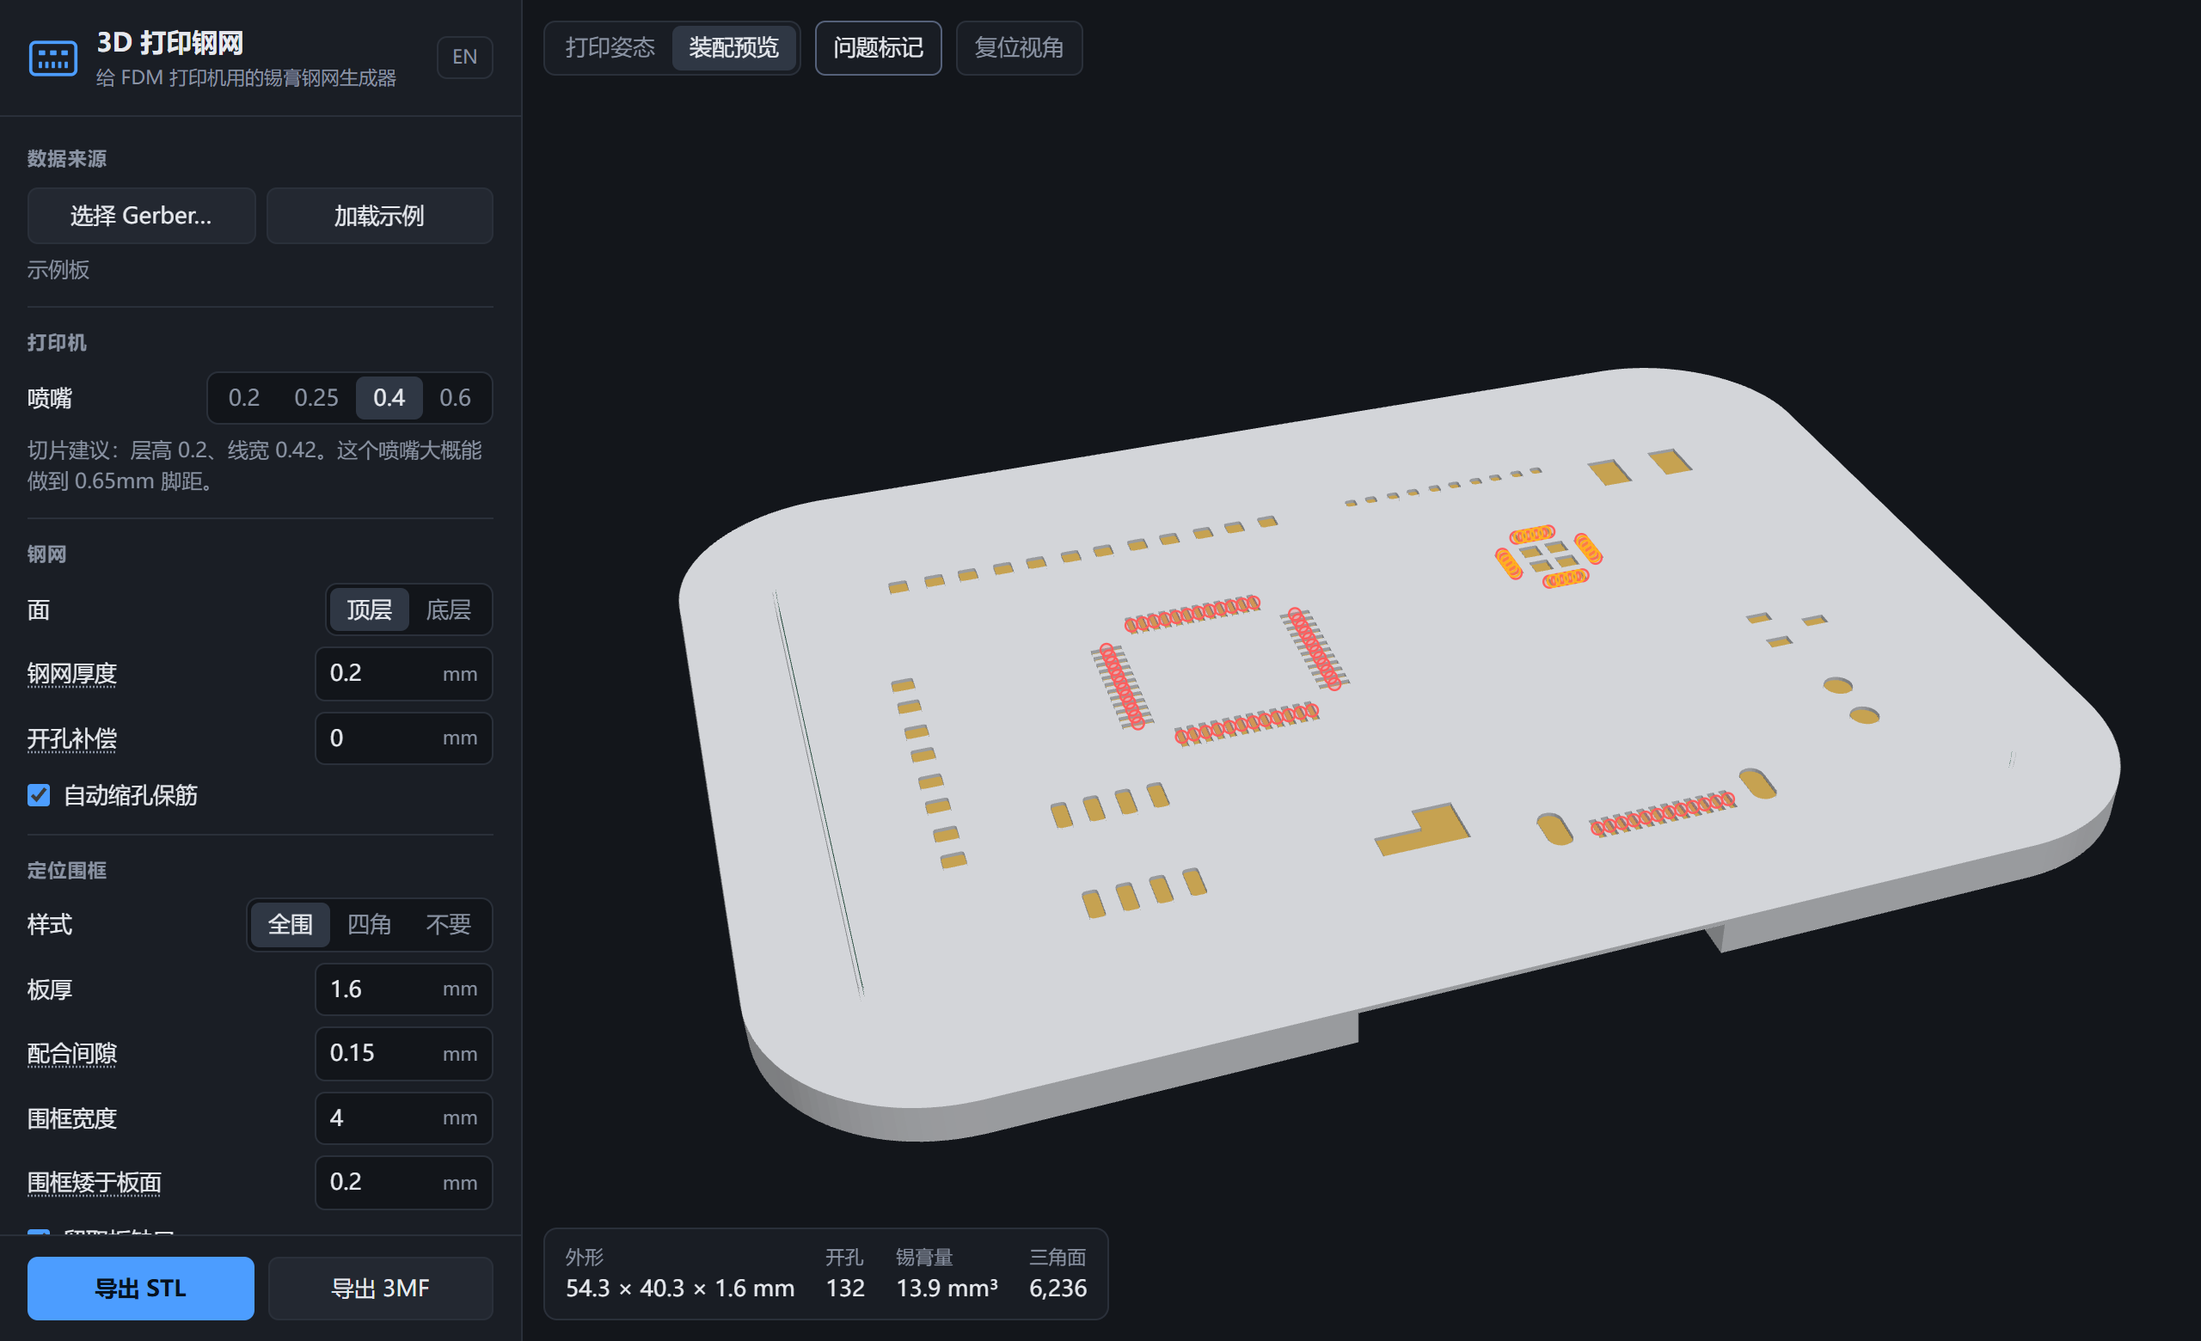
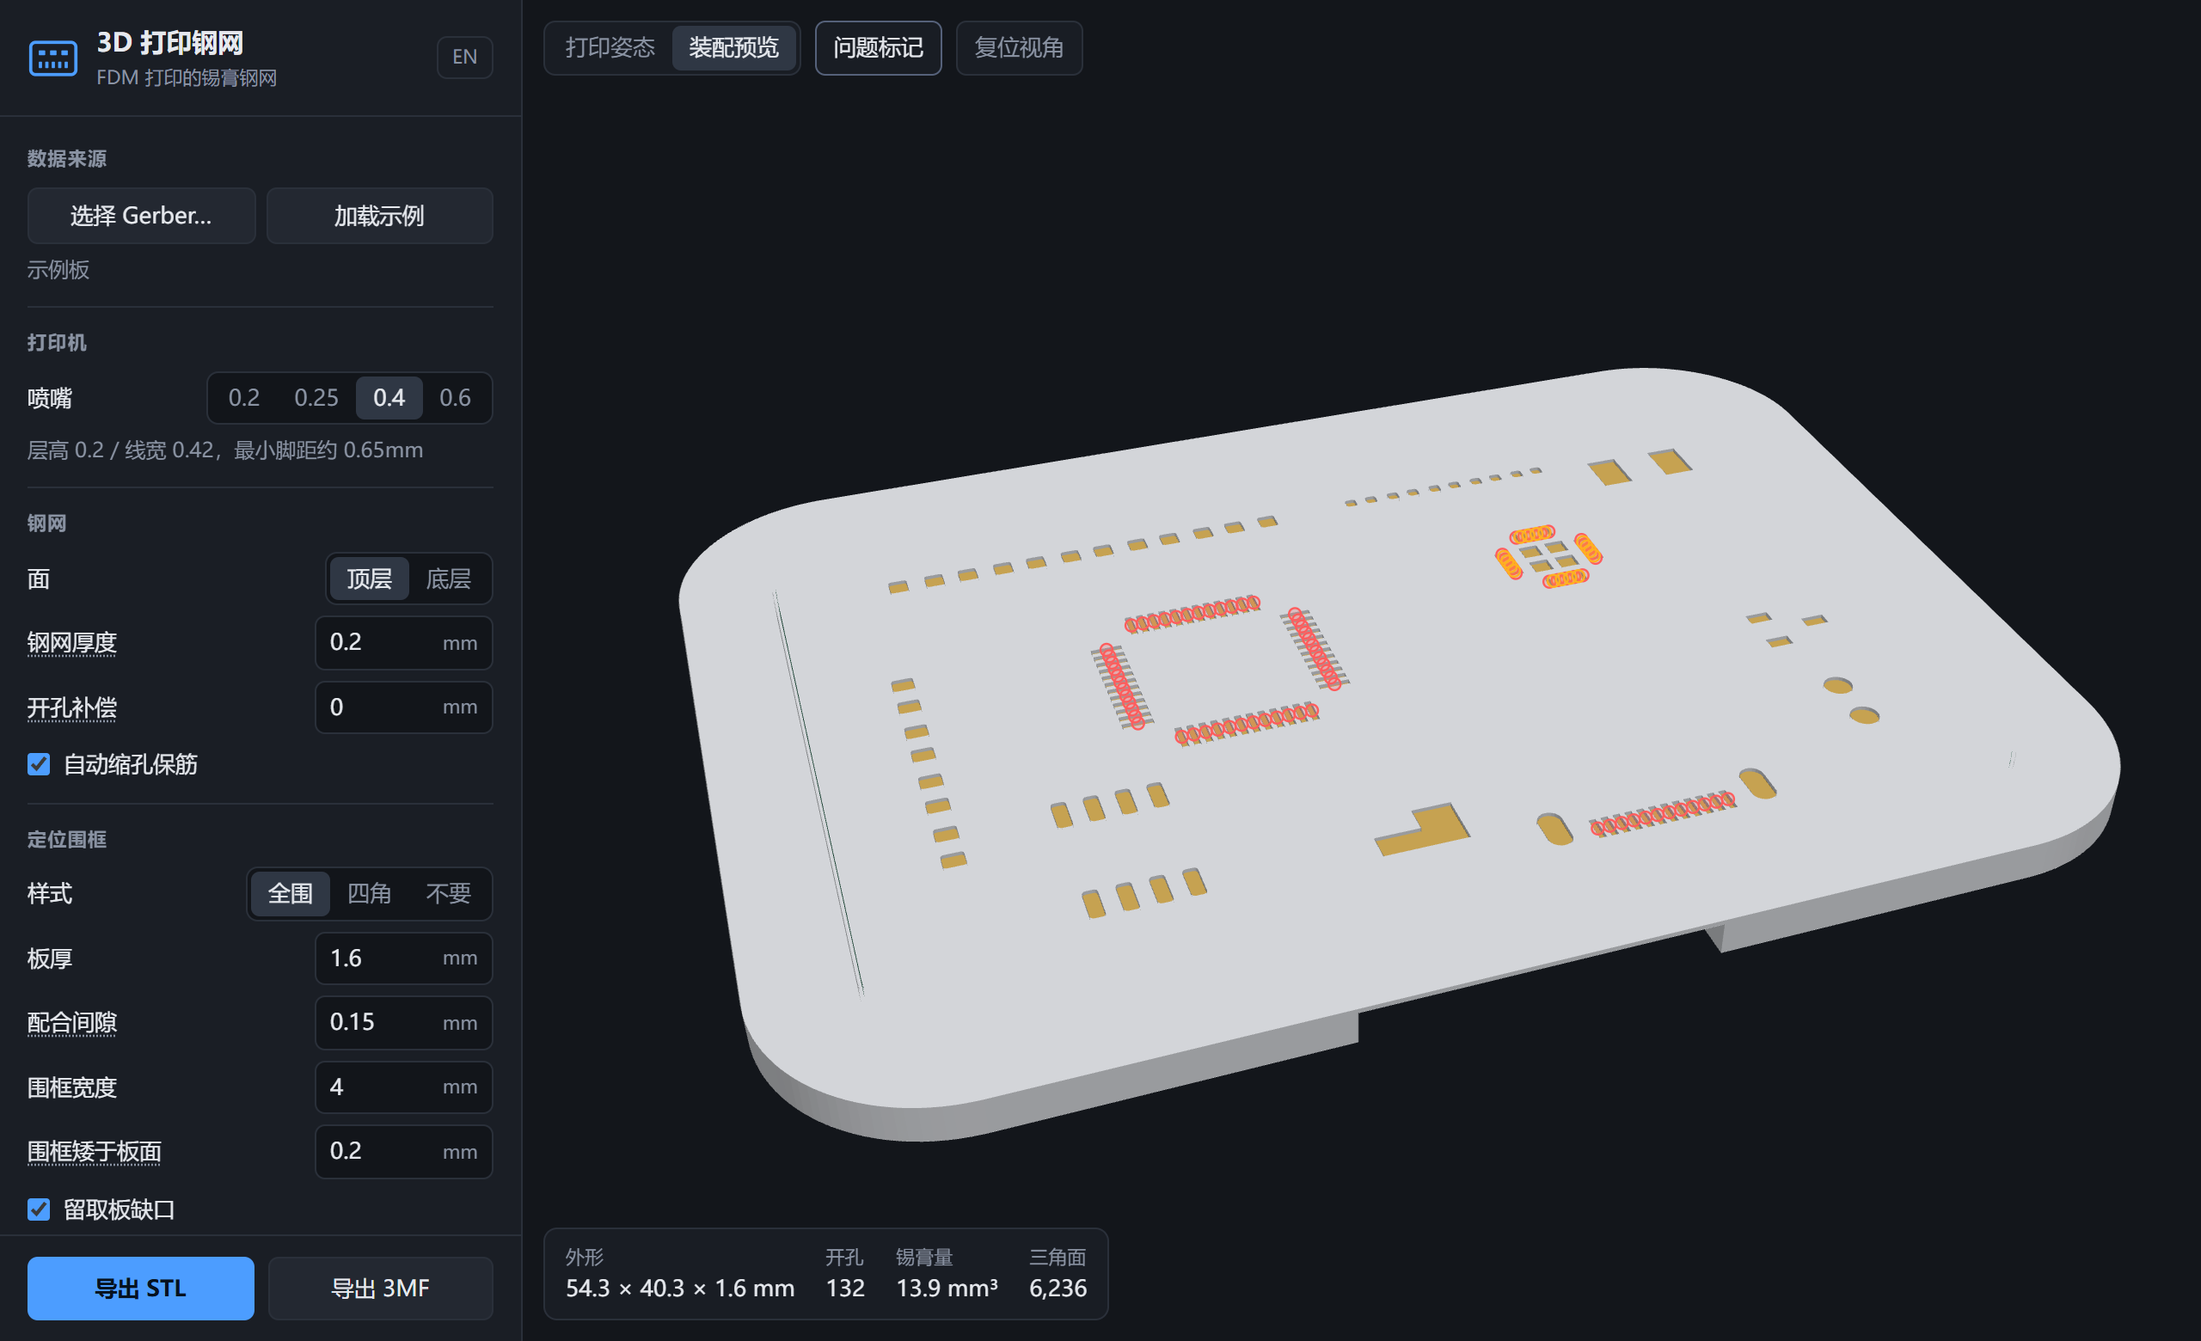
feat(app): 俯视对照，窗口默认停在右边，文案精简

diff --git a/src/app/i18n.ts b/src/app/i18n.ts
@@ -2,7 +2,7 @@ export type Lang = 'zh' | 'en';
 
 const zh = {
 	'title': '3D 打印钢网',
-	'subtitle': '给 FDM 打印机用的锡膏钢网生成器',
+	'subtitle': 'FDM 打印的锡膏钢网',
 	'source': '数据来源',
 	'source.eda': '读取当前 PCB',
 	'source.reload': '重新读取',
@@ -13,36 +13,36 @@ const zh = {
 	'source.demoName': '示例板',
 	'printer': '打印机',
 	'nozzle': '喷嘴',
-	'nozzle.hint': '切片建议：层高 {0}、线宽 {1}。这个喷嘴大概能做到 {2}mm 脚距。',
+	'nozzle.hint': '层高 {0} / 线宽 {1}，最小脚距约 {2}mm',
 	'nozzle.reset': '恢复推荐值',
 	'stencil': '钢网',
 	'side': '面',
 	'side.top': '顶层',
 	'side.bottom': '底层',
 	'thickness': '钢网厚度',
-	'thickness.tip': '就是锡膏厚度，设成切片层高的整数倍',
+	'thickness.tip': '即锡膏厚度，最好是层高的整数倍',
 	'compensation': '开孔补偿',
-	'compensation.tip': '正数把孔放大，负数缩小。FDM 的孔一般会偏小',
+	'compensation.tip': '正数放大开孔，FDM 打出来的孔一般偏小',
 	'keepWebs': '自动缩孔保筋',
-	'keepWebs.tip': '相邻孔之间的筋不够一条线宽时，两边的孔各缩一点，保证筋能打出来',
-	'check.webFix': '{0} 个孔和邻居之间的筋不够 {1}mm，已自动缩小一点让筋能打出来。',
+	'keepWebs.tip': '孔间筋不够一条线宽时，两边孔各缩一点',
+	'check.webFix': '缩小了 {0} 个孔，让孔间筋达到 {1}mm',
 	'frame': '定位围框',
 	'frame.mode': '样式',
 	'frame.full': '全围',
 	'frame.corners': '四角',
 	'frame.none': '不要',
 	'boardThickness': '板厚',
-	'boardThickness.auto': '已从叠层读到 {0}mm，记得核对一下',
+	'boardThickness.auto': '从叠层读到 {0}mm',
 	'clearance': '配合间隙',
-	'clearance.tip': '板边到围框内壁，太紧就调大',
+	'clearance.tip': '板边到围框内壁的间隙',
 	'frameWidth': '围框宽度',
 	'frameWidth.none': '外扩边宽',
 	'frameDrop': '围框矮于板面',
-	'frameDrop.tip': '围框比板子矮一点，钢网片才压得实',
+	'frameDrop.tip': '围框比板面矮一点，钢网才能贴平',
 	'cornerLength': '角臂长',
 	'notches': '留取板缺口',
 	'cornerRelief': '内角避让',
-	'cornerRelief.tip': '围框内角挖个小圆，不然打印堆料会顶住板角',
+	'cornerRelief.tip': '内角挖小圆，避免堆料顶住板角',
 	'export': '导出',
 	'export.stl': '导出 STL',
 	'export.3mf': '导出 3MF',
@@ -50,36 +50,35 @@ const zh = {
 	'view.print': '打印姿态',
 	'view.assembled': '装配预览',
 	'view.reset': '复位视角',
+	'view.top': '俯视对照',
+	'view.top.tip': '从正上方看装配效果，方向和 PCB 编辑器一致',
 	'view.issues': '问题标记',
 	'stat.size': '外形',
 	'stat.apertures': '开孔',
 	'stat.triangles': '三角面',
 	'stat.paste': '锡膏量',
-	'check': '可打印性',
-	'check.ok': '没发现问题，可以直接打。',
-	'check.narrow': '{0} 个开孔窄于 {1}mm，{2} 喷嘴很可能糊死。换细喷嘴，或者加一点开孔补偿。',
-	'check.web': '{0} 处孔间筋细于 {1}mm，可能打不出来导致相邻焊盘连锡。',
-	'check.noPaste': '这一面没有锡膏层数据（没有贴片焊盘？）。',
-	'check.outline.bbox': '板框没闭合，先用包围盒顶着，定位可能不准。',
-	'check.outline.stroke': '板框线段没接严，用描边轮廓近似的。',
-	'check.outline.none': '没找到板框层。',
-	'check.frameLow': '围框只有 {0}mm 高，可能卡不住板子。',
-	'check.gerber': 'Gerber 解析提示：{0}',
-	'check.mirrored': '顶层钢网已镜像，打印时光面朝下，用的时候翻过来扣在板上。',
-	'tips': '打印小贴士',
-	'tips.body': 'PETG 比 PLA 韧，更耐刮；用光面板，首层放慢到 20mm/s；第一层就是钢网片，别开太大的象脚补偿；刮刀用旧卡片就行。',
+	'check': '检查',
+	'check.ok': '没有问题',
+	'check.narrow': '{0} 个孔窄于 {1}mm，{2} 喷嘴可能会堵',
+	'check.web': '{0} 处孔间筋细于 {1}mm，可能连锡',
+	'check.noPaste': '这一面没有锡膏层',
+	'check.outline.bbox': '板框没闭合，按外接矩形处理',
+	'check.outline.stroke': '板框线段没接上，按描边近似',
+	'check.outline.none': '没有板框层',
+	'check.frameLow': '围框只有 {0}mm 高，可能卡不住',
+	'check.gerber': 'Gerber：{0}',
 	'busy': '计算中…',
 	'busy.eda': '正在从 PCB 导出 Gerber…',
-	'error.noGerber': '没拿到 Gerber，请确认当前打开的是 PCB 页面。',
-	'error.noLayers': '压缩包里没找到锡膏层或板框层。',
-	'error.webgl': '浏览器不支持 WebGL2，没法预览，但导出不受影响。',
+	'error.noGerber': '没拿到 Gerber。切到 PCB 编辑页（不是 3D 预览）再点重新读取',
+	'error.noLayers': '压缩包里没有锡膏层或板框层',
+	'error.webgl': '不支持 WebGL2，没法预览，导出不受影响',
 	'error.failed': '生成失败：{0}',
 	'unit.layers': '层',
 };
 
 const en: Record<keyof typeof zh, string> = {
 	'title': '3D Printed Stencil',
-	'subtitle': 'Solder paste stencil generator for FDM printers',
+	'subtitle': 'Solder paste stencils for FDM printers',
 	'source': 'Source',
 	'source.eda': 'Read current PCB',
 	'source.reload': 'Reload',
@@ -90,36 +89,36 @@ const en: Record<keyof typeof zh, string> = {
 	'source.demoName': 'Demo board',
 	'printer': 'Printer',
 	'nozzle': 'Nozzle',
-	'nozzle.hint': 'Slicer: layer height {0}, line width {1}. Good down to about {2}mm pitch.',
+	'nozzle.hint': 'Layer {0} / line {1}, down to about {2}mm pitch',
 	'nozzle.reset': 'Reset to recommended',
 	'stencil': 'Stencil',
 	'side': 'Side',
 	'side.top': 'Top',
 	'side.bottom': 'Bottom',
 	'thickness': 'Thickness',
-	'thickness.tip': 'Equals paste height. Keep it a multiple of your layer height',
+	'thickness.tip': 'Paste height. Best as a multiple of layer height',
 	'compensation': 'Aperture offset',
-	'compensation.tip': 'Positive grows the holes. FDM holes usually come out small',
+	'compensation.tip': 'Positive grows the apertures. FDM holes tend to come out small',
 	'keepWebs': 'Keep webs printable',
-	'keepWebs.tip': 'When the web between two apertures is thinner than one line, trim both apertures a little so it can be printed',
-	'check.webFix': '{0} apertures were trimmed slightly so the webs between them reach {1}mm.',
+	'keepWebs.tip': 'Trim both apertures when the web between them is under one line wide',
+	'check.webFix': 'Trimmed {0} apertures to keep webs at {1}mm',
 	'frame': 'Alignment frame',
 	'frame.mode': 'Style',
 	'frame.full': 'Full',
 	'frame.corners': 'Corners',
 	'frame.none': 'None',
 	'boardThickness': 'Board thickness',
-	'boardThickness.auto': 'Read {0}mm from the stackup, please double-check',
+	'boardThickness.auto': 'Read {0}mm from the stackup',
 	'clearance': 'Fit clearance',
-	'clearance.tip': 'Gap between board edge and frame. Increase if too tight',
+	'clearance.tip': 'Gap between board edge and frame',
 	'frameWidth': 'Frame width',
 	'frameWidth.none': 'Margin',
 	'frameDrop': 'Frame below board',
-	'frameDrop.tip': 'Frame is slightly shorter than the board so the sheet sits flat',
+	'frameDrop.tip': 'Frame sits slightly below the board so the sheet lies flat',
 	'cornerLength': 'Corner arm',
 	'notches': 'Finger notches',
 	'cornerRelief': 'Corner relief',
-	'cornerRelief.tip': 'Small circles at inside corners so blobs do not block the board',
+	'cornerRelief.tip': 'Relief circles in inside corners for FDM blobs',
 	'export': 'Export',
 	'export.stl': 'Export STL',
 	'export.3mf': 'Export 3MF',
@@ -127,29 +126,28 @@ const en: Record<keyof typeof zh, string> = {
 	'view.print': 'Print',
 	'view.assembled': 'Assembled',
 	'view.reset': 'Reset view',
+	'view.top': 'Top view',
+	'view.top.tip': 'Assembled view from straight above, same orientation as the PCB editor',
 	'view.issues': 'Issues',
 	'stat.size': 'Size',
 	'stat.apertures': 'Apertures',
 	'stat.triangles': 'Triangles',
 	'stat.paste': 'Paste',
-	'check': 'Printability',
-	'check.ok': 'Looks good, ready to print.',
-	'check.narrow': '{0} apertures are narrower than {1}mm and will likely clog with a {2} nozzle. Use a finer nozzle or add some aperture offset.',
-	'check.web': '{0} webs between apertures are thinner than {1}mm and may not print, bridging neighbouring pads.',
-	'check.noPaste': 'No paste data on this side (no SMD pads?).',
-	'check.outline.bbox': 'Board outline is not closed, using its bounding box. Alignment may be off.',
-	'check.outline.stroke': 'Outline segments do not meet exactly, approximated from the strokes.',
-	'check.outline.none': 'No board outline layer found.',
-	'check.frameLow': 'The frame is only {0}mm tall and may not hold the board.',
-	'check.gerber': 'Gerber notice: {0}',
-	'check.mirrored': 'Top stencil is mirrored: print smooth side down, flip it onto the board to use.',
-	'tips': 'Printing tips',
-	'tips.body': 'PETG is tougher than PLA. Use a smooth plate, slow the first layer to 20mm/s, go easy on elephant-foot compensation, and an old card makes a fine squeegee.',
+	'check': 'Checks',
+	'check.ok': 'No issues',
+	'check.narrow': '{0} apertures under {1}mm, may clog with a {2} nozzle',
+	'check.web': '{0} webs under {1}mm, pads may bridge',
+	'check.noPaste': 'No paste layer on this side',
+	'check.outline.bbox': 'Outline not closed, using bounding box',
+	'check.outline.stroke': 'Outline segments do not meet, approximated',
+	'check.outline.none': 'No outline layer',
+	'check.frameLow': 'Frame is only {0}mm tall, may not hold the board',
+	'check.gerber': 'Gerber: {0}',
 	'busy': 'Working…',
 	'busy.eda': 'Exporting Gerber from the PCB…',
-	'error.noGerber': 'Could not get Gerber data. Make sure a PCB document is active.',
-	'error.noLayers': 'No paste or outline layer found in the archive.',
-	'error.webgl': 'WebGL2 is not available, preview is disabled but export still works.',
+	'error.noGerber': 'No Gerber data. Switch to the PCB editor tab (not the 3D view) and hit Reload',
+	'error.noLayers': 'No paste or outline layer in the archive',
+	'error.webgl': 'No WebGL2, preview disabled. Export still works',
 	'error.failed': 'Failed: {0}',
 	'unit.layers': 'layers',
 };

diff --git a/src/app/main.ts b/src/app/main.ts
@@ -4,7 +4,8 @@ import type { Key, Lang } from './i18n';
 import type { Marker, SceneItem } from './viewer';
 import { applyNozzle, buildMesh, DEFAULT_PARAMS, generateStencil, loadBoard, nozzlePreset, to3mf, toStl } from '../core';
 import { demoGerbers } from '../core/demo';
-import { hostLanguage, inEda, readBoardThickness, readFiles, readFromEda, saveFile } from './host';
+import { DOCK_MAX } from '../window';
+import { dockWindow, hostLanguage, inEda, readBoardThickness, readFiles, readFromEda, saveFile } from './host';
 import { getLang, setLang, t } from './i18n';
 import { flipOnto, Viewer } from './viewer';
 
@@ -309,9 +310,6 @@ function renderChecks(): void {
 	if (clean) {
 		add('ok', t('check.ok'));
 	}
-	if (model.mirrored) {
-		add('info', t('check.mirrored'));
-	}
 }
 
 function useBoard(loaded: LoadedBoard): void {
@@ -393,6 +391,14 @@ function bindStage(): void {
 		}
 	});
 	$('#view-reset').addEventListener('click', () => viewer?.resetCamera());
+	$('#view-top').addEventListener('click', () => {
+		if (viewMode !== 'assembled') {
+			viewMode = 'assembled';
+			syncControls();
+			renderScene(false);
+		}
+		viewer?.setAngles(-Math.PI / 2, Math.PI / 2 - 0.001);
+	});
 	$('#view-issues').addEventListener('click', (e) => {
 		if (viewer) {
 			viewer.showMarkers = !viewer.showMarkers;
@@ -481,6 +487,10 @@ async function main(): Promise<void> {
 	}
 	syncControls();
 	if (inEda) {
+		// 入口没拿到视口大小时开的是默认窗口，这里挪到右边，新窗口会重新加载
+		if (window.innerWidth > DOCK_MAX && await dockWindow(t('title'))) {
+			return;
+		}
 		$('#load-eda').hidden = false;
 		$('#load-demo').hidden = true;
 		await loadFromEda();

diff --git a/src/index.ts b/src/index.ts
@@ -1,15 +1,27 @@
 // 扩展入口。主进程里没有 DOM，所有界面和计算都在 iframe 里，这边只负责开窗
 import extensionConfig from '../extension.json' with { type: 'json' };
+import { dockRect, PAGE, WINDOW_IDS, windowProps } from './window';
 
 // eslint-disable-next-line unused-imports/no-unused-vars
 export function activate(status?: 'onStartupFinished', arg?: string): void {}
 
-export function openStencil(): void {
-	eda.sys_IFrame.openIFrame('/iframe/index.html', 1180, 760, 'easyeda-3d-stencil', {
-		maximizeButton: true,
-		minimizeButton: true,
-		title: eda.sys_I18n.text('3D Printed Stencil'),
-	});
+export async function openStencil(): Promise<void> {
+	for (const id of WINDOW_IDS) {
+		if (await eda.sys_IFrame.isIFrameAlreadyExist(id)) {
+			await eda.sys_IFrame.showIFrame(id);
+			return;
+		}
+	}
+	const props = windowProps(eda.sys_I18n.text('3D Printed Stencil'));
+	// 主进程里不一定拿得到视口大小，拿不到就先开个默认的，界面加载后自己挪到右边
+	const g = globalThis as { innerWidth?: number; innerHeight?: number };
+	if (g.innerWidth && g.innerHeight) {
+		const r = dockRect(g.innerWidth, g.innerHeight);
+		await eda.sys_IFrame.openIFrame(PAGE, r.width, r.height, WINDOW_IDS[0], { ...props, x: r.x, y: r.y });
+	}
+	else {
+		await eda.sys_IFrame.openIFrame(PAGE, 1180, 760, WINDOW_IDS[0], props);
+	}
 }
 
 export function about(): void {

diff --git a/src/app/host.ts b/src/app/host.ts
@@ -2,6 +2,7 @@
 import type { GerberSources, LayerRole } from '../core';
 import JSZip from 'jszip';
 import { pickLayers } from '../core';
+import { dockRect, PAGE, WINDOW_IDS, windowProps } from '../window';
 
 // iframe 里 eda 是直接挂在全局上的
 export const inEda = typeof (globalThis as { eda?: unknown }).eda !== 'undefined';
@@ -135,4 +136,33 @@ export async function saveFile(data: ArrayBuffer, fileName: string, mime: string
 	a.click();
 	a.remove();
 	setTimeout(() => URL.revokeObjectURL(url), 1000);
+}
+
+// 对话框不能拖边改大小，只能按新尺寸重开一个再关掉旧的，两个 ID 轮换着用
+export async function dockWindow(title: string): Promise<boolean> {
+	let current = WINDOW_IDS[0];
+	for (const id of WINDOW_IDS) {
+		if (await eda.sys_IFrame.isIFrameAlreadyExist(id)) {
+			current = id;
+		}
+	}
+	const next = WINDOW_IDS.find(id => id !== current)!;
+	let vw = screen.availWidth;
+	let vh = screen.availHeight;
+	try {
+		vw = window.top!.innerWidth;
+		vh = window.top!.innerHeight;
+	}
+	catch {
+		// 跨域拿不到就按屏幕算
+	}
+	const r = dockRect(vw, vh);
+	try {
+		if (await eda.sys_IFrame.openIFrame(PAGE, r.width, r.height, next, { ...windowProps(title), x: r.x, y: r.y })) {
+			await eda.sys_IFrame.closeIFrame(current);
+			return true;
+		}
+	}
+	catch {}
+	return false;
 }

diff --git a/src/window.ts b/src/window.ts
@@ -1,0 +1,16 @@
+// 扩展入口和界面共用的窗口参数
+export const WINDOW_IDS = ['easyeda-3d-stencil', 'easyeda-3d-stencil-alt'];
+export const PAGE = '/iframe/index.html';
+
+// 停在右边，左边留给 PCB 对照。宽度封顶，界面里按宽度判断是否已经靠右
+export const DOCK_MAX = 960;
+
+export function dockRect(vw: number, vh: number): { width: number; height: number; x: number; y: number } {
+	const width = Math.round(Math.min(DOCK_MAX, Math.max(560, vw * 0.42)));
+	const height = Math.round(Math.max(480, vh - 160));
+	return { width, height, x: Math.max(0, vw - width - 24), y: 96 };
+}
+
+export function windowProps(title: string) {
+	return { maximizeButton: true, minimizeButton: true, grayscaleMask: false, title };
+}

diff --git a/src/app/index.html b/src/app/index.html
@@ -119,11 +119,6 @@
 					<h2 data-i18n="check"></h2>
 					<ul id="checks" class="checks"></ul>
 				</section>
-
-				<section>
-					<h2 data-i18n="tips"></h2>
-					<p class="muted" data-i18n="tips.body"></p>
-				</section>
 			</div>
 
 			<footer class="export">
@@ -141,6 +136,7 @@
 					<button type="button" data-value="assembled" data-i18n="view.assembled"></button>
 				</div>
 				<button id="view-issues" class="chip on" type="button" data-i18n="view.issues"></button>
+				<button id="view-top" class="chip" type="button" data-i18n="view.top" data-i18n-title="view.top.tip"></button>
 				<button id="view-reset" class="chip" type="button" data-i18n="view.reset"></button>
 			</div>
 			<dl id="stats" class="stats"></dl>
